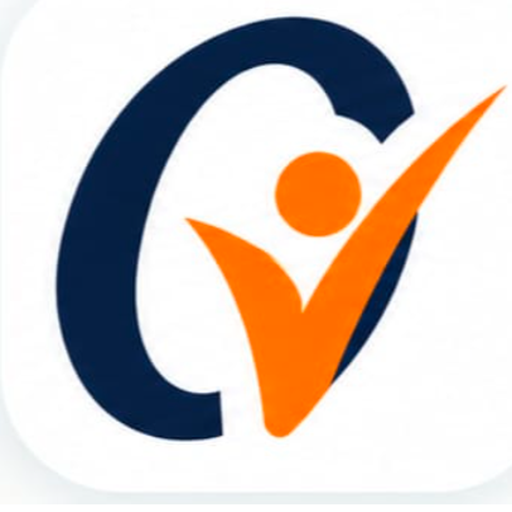
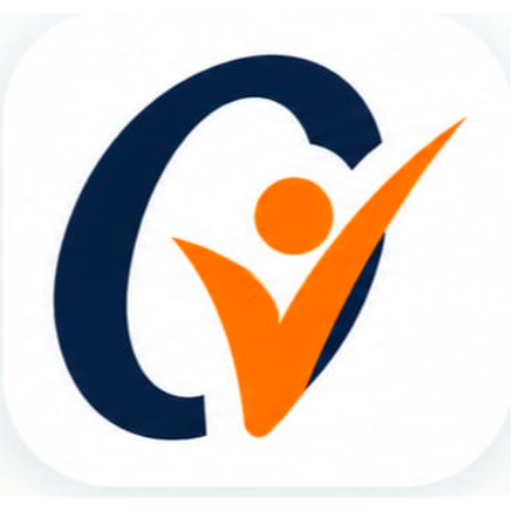
feat: update

Changed region(s): [[0.0938, 0.0312, 1.0, 0.875]]

diff --git a/src/components/Logo.tsx b/src/components/Logo.tsx
@@ -24,7 +24,7 @@ export default function Logo({
           alt="Orbous - Enterprise IT Solutions & Cloud Innovations"
           width={width || 44}
           height={height || 44}
-          className="w-full h-full object-contain filter drop-shadow-[0_2px_8px_rgba(6,78,59,0.15)]"
+          className="w-full h-full object-contain rounded-xl filter drop-shadow-[0_2px_8px_rgba(6,78,59,0.15)]"
           priority={priority}
         />
       </div>
@@ -33,13 +33,13 @@ export default function Logo({
 
   if (variant === "badge") {
     return (
-      <div className={`relative flex items-center justify-center rounded-2xl bg-[#064E3B] border border-[#F8E7C9]/40 p-1.5 shadow-[0_4px_20px_rgba(6,78,59,0.25)] ${className}`}>
+      <div className={`relative flex items-center justify-center rounded-2xl bg-white/95 dark:bg-slate-900 border border-slate-200 dark:border-slate-800 p-1.5 shadow-[0_4px_20px_rgba(0,0,0,0.15)] ${className}`}>
         <Image
           src="/favicon.png"
-          alt="Orbous Emblem - Gurgaon Cyber City"
+          alt="Orbous Emblem"
           width={width || 40}
           height={height || 40}
-          className="w-full h-full object-contain"
+          className="w-full h-full object-contain rounded-lg"
           priority={priority}
         />
       </div>
@@ -48,16 +48,23 @@ export default function Logo({
 
   // Full Brand Logo
   return (
-    <div className={`relative flex items-center shrink-0 ${className}`}>
-      {/* Light & Dark optimized image rendering */}
+    <div className={`relative flex items-center gap-3 shrink-0 ${className}`}>
       <Image
-        src="/orbous-logo-transparent.png"
-        alt="Orbous - IT & Software Solutions, Gurgaon Cyber City"
-        width={width || 160}
-        height={height || 44}
-        className="w-auto h-full max-h-12 object-contain dark:brightness-110 drop-shadow-[0_2px_10px_rgba(0,0,0,0.08)]"
+        src="/favicon.png"
+        alt="Orbous - IT & Software Solutions"
+        width={width || 40}
+        height={height || 40}
+        className="w-10 h-10 object-contain rounded-xl shadow-sm"
         priority={priority}
       />
+      <div className="flex flex-col justify-center">
+        <span className="text-2xl font-extrabold tracking-tight bg-gradient-to-r from-slate-900 via-indigo-950 to-blue-900 dark:from-white dark:via-slate-100 dark:to-orange-400 bg-clip-text text-transparent font-outfit leading-none">
+          Orbous
+        </span>
+        <span className="text-[10px] tracking-wider uppercase font-semibold text-orange-600 dark:text-orange-400 mt-0.5">
+          IT Solutions
+        </span>
+      </div>
     </div>
   );
 }
